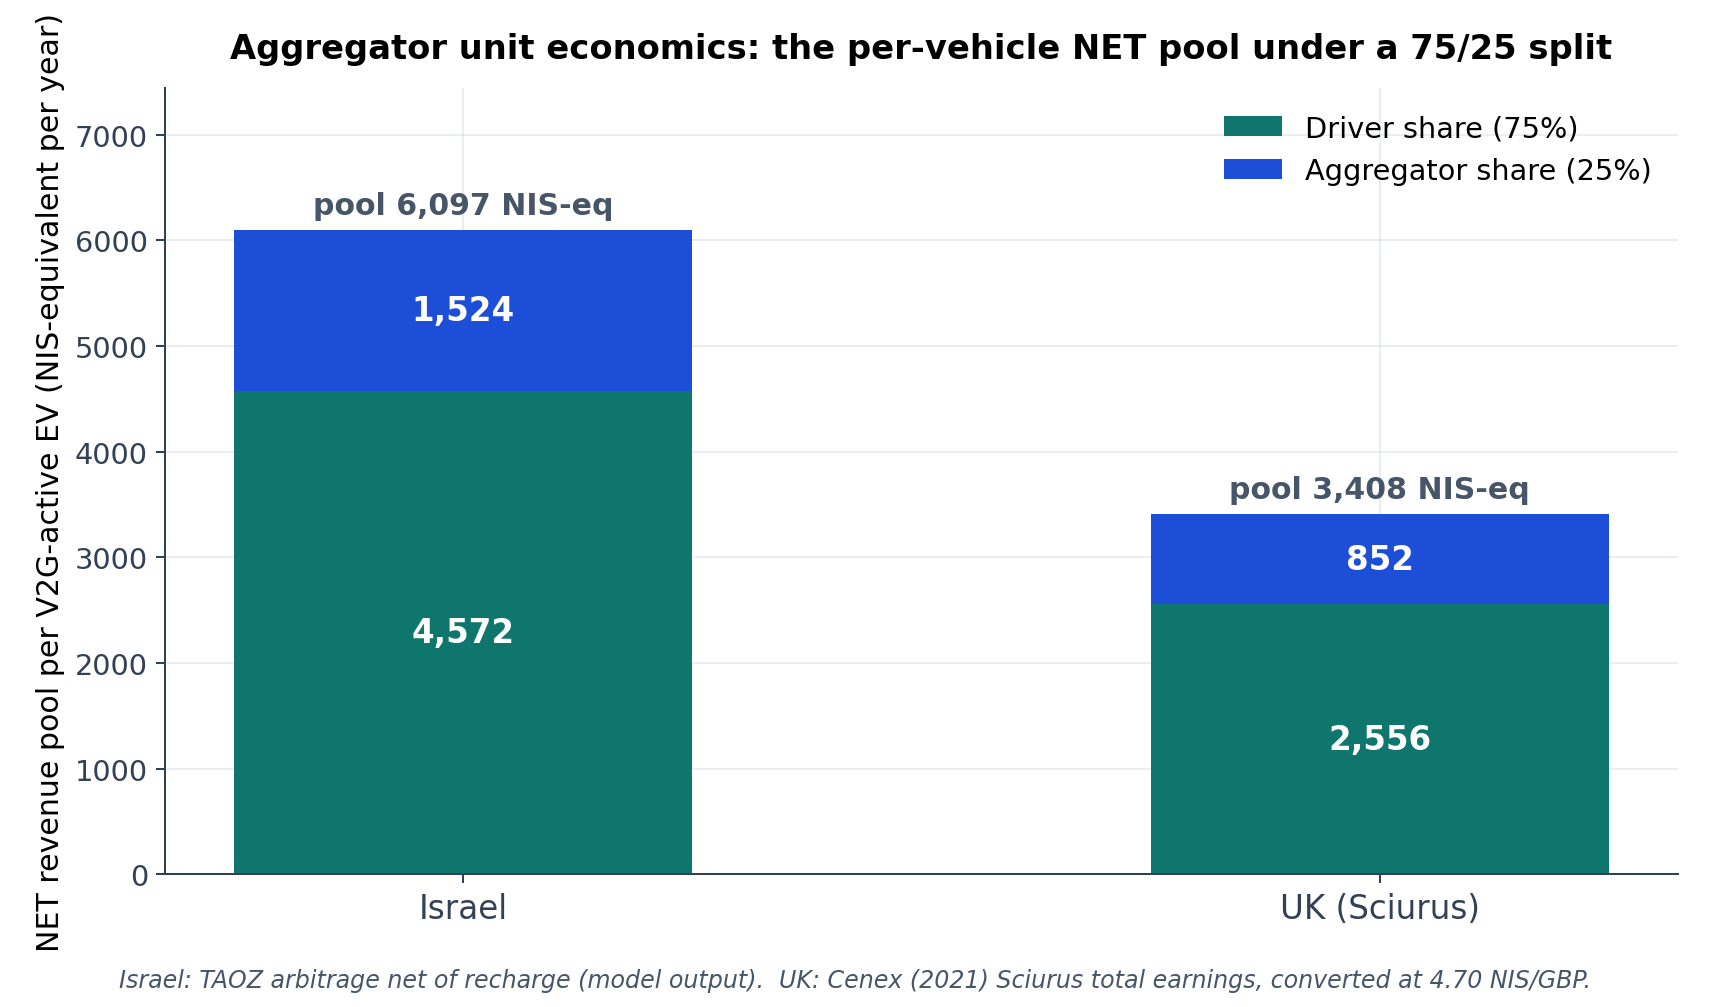
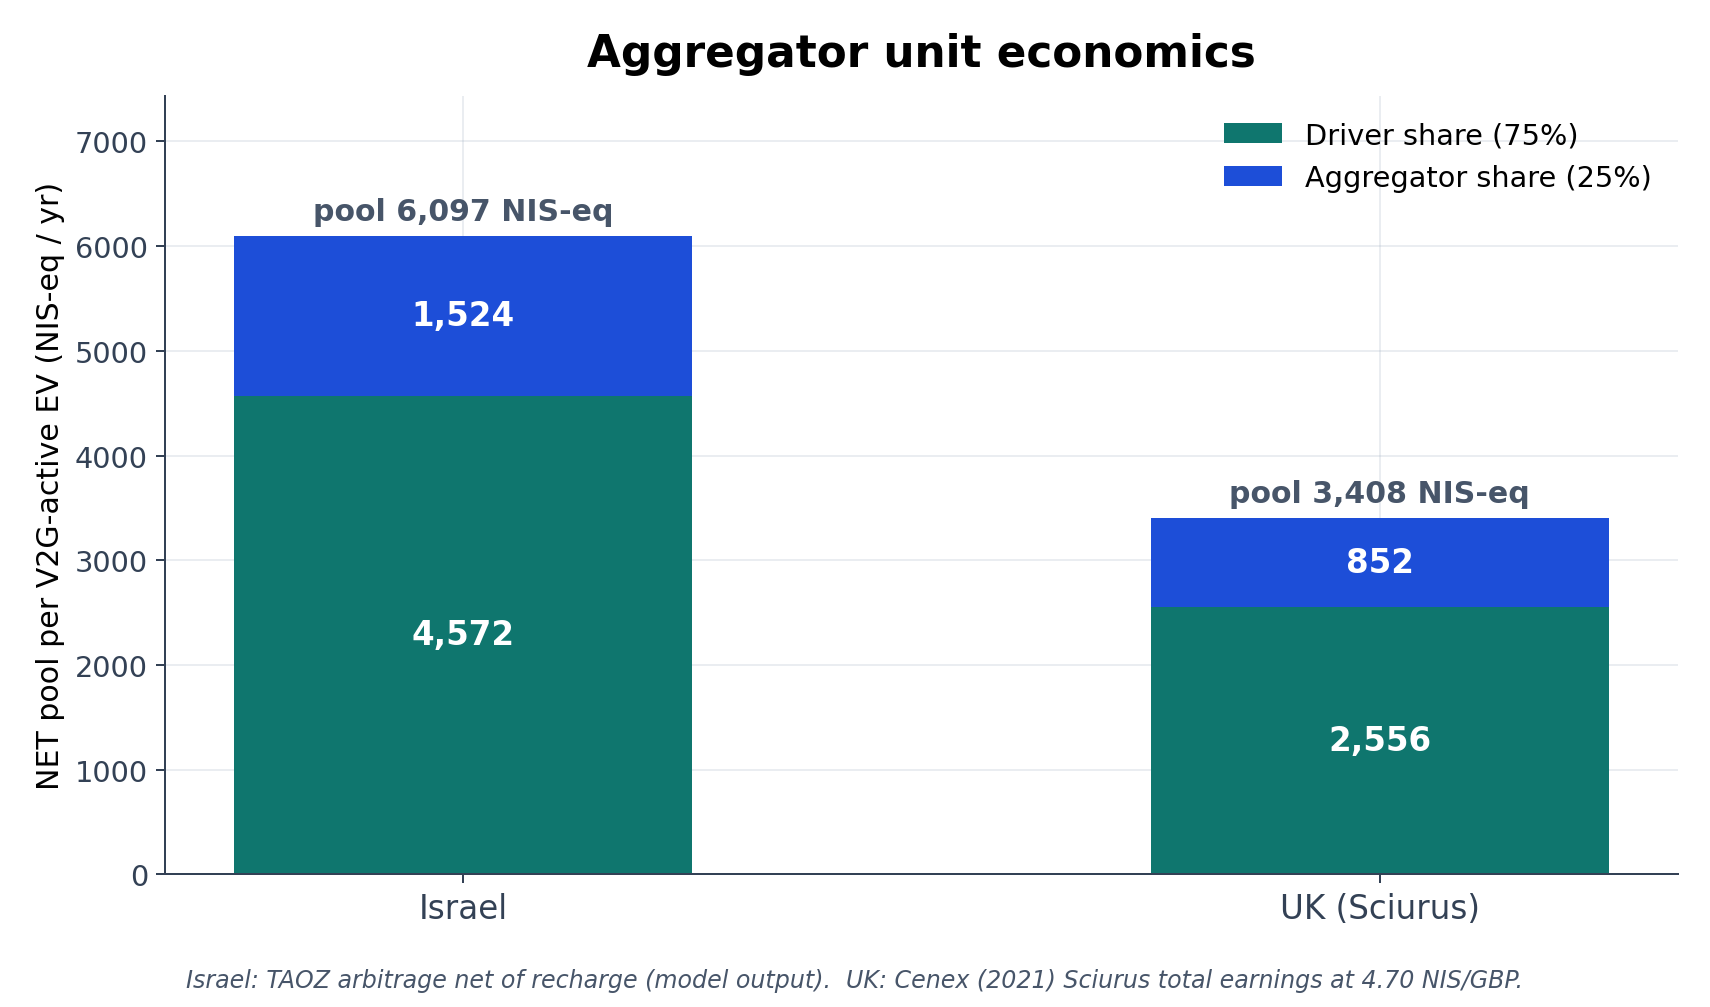
git add -A git commit -m "Title-size formula across all figures (uniform 8pt printed size: 4.2-4.4, 4.6-4.9 panels, 5.1), Fig 4.6 short panel titles after collision, Fig 3.4 centered title with legend below, Fig 4.7 script formalized (plot_w11b_single), representative-vehicle figure retired from man

diff --git a/src/plot_w12t_sensitivity_split.py b/src/plot_w12t_sensitivity_split.py
@@ -33,7 +33,7 @@ def panel_capex(ax):
                label="10-yr battery life")
     ax.set_ylabel("V2G premium payback (years)", fontsize=11.5)
     ax.set_title("(1) Bidirectional charger CAPEX, 2026 vs 2028",
-                 fontsize=14.0, fontweight="bold")
+                 fontsize=18.0, fontweight="bold")
     ax.set_ylim(0, 12)
     ax.legend(fontsize=11.5, loc="upper right")
     ax.grid(True, axis="y", alpha=0.3)
@@ -55,7 +55,7 @@ def panel_uk_rate(ax):
     ax.set_xlabel("Power Pack export rate (p/kWh)", fontsize=11.5)
     ax.set_ylabel("Payback (years)", fontsize=11.5)
     ax.set_title("(2) UK Power Pack rate sweep (net of Go recharge)",
-                 fontsize=14.0, fontweight="bold")
+                 fontsize=18.0, fontweight="bold")
     ax.legend(fontsize=11.5, loc="upper right")
     ax.grid(True, alpha=0.3)
 
@@ -75,7 +75,7 @@ def panel_taoz(ax):
     ax.set_ylabel("Annual GROSS V2G revenue (NIS/EV/yr)", fontsize=11.5)
     ax.set_title("(3) Israel TAOZ peak/off-peak spread\n"
                  "annual gross (subtract ~1,940 NIS/yr CAPEX amortisation for net)",
-                 fontsize=14.0, fontweight="bold")
+                 fontsize=18.0, fontweight="bold")
     ax.legend(fontsize=11.5, loc="upper left")
     ax.grid(True, axis="y", alpha=0.3)
 
@@ -95,7 +95,7 @@ def panel_plugin(ax):
     ax.set_xlabel("Plug-in probability (% of home evenings)", fontsize=11.5)
     ax.set_ylabel("Daily Charger V2G kWh/yr", fontsize=11.5)
     ax.set_title("(4) Plug-in probability robustness (3-seed avg, 90 % cap)",
-                 fontsize=14.0, fontweight="bold")
+                 fontsize=18.0, fontweight="bold")
     ax.legend(fontsize=11.5, loc="lower right")
     ax.grid(True, alpha=0.3)
 
@@ -116,7 +116,7 @@ def panel_return_home(ax):
     ax.set_xlabel("Arrival home hour", fontsize=11.5)
     ax.set_ylabel("Daily Charger V2G kWh/yr", fontsize=11.5)
     ax.set_title("(6) Return-home hour sensitivity (3-seed avg, 90 % cap)",
-                 fontsize=14.0, fontweight="bold")
+                 fontsize=18.0, fontweight="bold")
     ax.legend(fontsize=11.5, loc="lower left")
     ax.grid(True, alpha=0.3)
     ax.set_ylim(3500, 6500)
@@ -147,7 +147,7 @@ def panel_drive_days(ax):
     ax.set_ylabel("Annual V2G kWh / car", fontsize=11.5)
     ax.set_title("(7) Drive-days sensitivity (3-seed avg, 90 % cap)\n"
                  "matched 87 % plug-in; curves converge at 0 d/wk",
-                 fontsize=14.0, fontweight="bold")
+                 fontsize=18.0, fontweight="bold")
     ax.set_xticks(drive_days)
     ax.legend(fontsize=11.5, loc="lower left")
     ax.grid(True, alpha=0.3)
@@ -190,7 +190,7 @@ def panel_grid(ax):
                   fontsize=11.5)
     ax.set_title("(5) Feeder worst-case envelope, all participants discharging\n"
                  "at once (54 HH x 1 EV, 517 kVA; simulated year: zero denials)",
-                 fontsize=14.0, fontweight="bold")
+                 fontsize=18.0, fontweight="bold")
     ax.legend(fontsize=11.0, loc="upper left")
     ax.grid(True, alpha=0.3)
     ax.set_ylim(-260, 620)

diff --git a/src/plot_w11_aggregator_economics.py b/src/plot_w11_aggregator_economics.py
@@ -86,8 +86,8 @@ def fig1_alpha_beta_heatmap() -> Path:
         ax.set_ylabel(r"$\beta \cdot \gamma$  -  capable AND participating share of EVs",
                       fontsize=12.5)
         currency = "NIS" if country == "Israel" else "GBP"
-        ax.set_title(f"{country}  -  aggregator annual revenue (millions of {currency})",
-                     fontsize=13.5, fontweight="bold")
+        ax.set_title(f"{country} (millions of {currency})",
+                     fontsize=17.5, fontweight="bold", loc="center")
 
         vmax = grid.max() if grid.max() > 0 else 1.0
         for i in range(len(BGAMMA_GRID)):
@@ -100,16 +100,12 @@ def fig1_alpha_beta_heatmap() -> Path:
         plt.colorbar(im, ax=ax, fraction=0.045, pad=0.04,
                      label=f"millions of {currency} per year")
 
-    fig.suptitle(
-        "Aggregator annual revenue under alpha x (beta*gamma) sensitivity   "
-        f"-   aggregator share {AGGREGATOR_SHARE_DEFAULT*100:.0f}% of V2G margin",
-        fontsize=13.5, fontweight="bold",
-    )
+    pass
     fig.text(0.5, 0.02,
              "alpha = EV share of total fleet  ·  beta*gamma = share of EVs "
              "BOTH V2G-capable AND participating (Wong-weighted).",
              ha="center", fontsize=10.5, style="italic", color="#555")
-    fig.tight_layout(rect=(0, 0.04, 1, 0.93))
+    fig.tight_layout(rect=(0, 0.04, 1, 1))
     out = OUTDIR / "w11_aggregator_alpha_beta.png"
     fig.savefig(out, dpi=150, facecolor="white")
     plt.close(fig)
@@ -160,7 +156,7 @@ def fig2_share_sensitivity() -> Path:
         ax.set_title(
             f"{country}  -  2030 target fleet "
             f"(alpha={alpha:.2f}, beta={beta:.2f})",
-            fontsize=12, fontweight="bold",
+            fontsize=17.5, fontweight="bold",
         )
         ax.legend(loc="center right", fontsize=10, framealpha=0.95)
         ax.grid(True, alpha=0.3)
@@ -168,7 +164,7 @@ def fig2_share_sensitivity() -> Path:
     fig.suptitle(
         "Driver vs aggregator split  -  fixed 2030 target fleet, "
         "Wong-weighted per-EV V2G revenue",
-        fontsize=12, fontweight="bold",
+        fontsize=17.5, fontweight="bold",
     )
     fig.tight_layout(rect=(0, 0, 1, 0.93))
     out = OUTDIR / "w11_aggregator_share_curve.png"

diff --git a/src/plot_w11b_single.py b/src/plot_w11b_single.py
@@ -1,0 +1,50 @@
+"""Figure 4.7: per-vehicle NET pool under the 75/25 split (single panel).
+
+Run:  python -m src.plot_w11b_single
+"""
+
+import matplotlib.pyplot as plt
+import numpy as np
+
+from src.plot_style import apply_style, PALETTE
+
+apply_style()
+
+KWH = {"Daily Charger": 4820, "BEV 2nd Vehicle": 6220}
+PEAK, OFF, RTE = 1.6895, 0.528, 0.9025
+IL_NET = sum(k * PEAK - k / RTE * OFF for k in KWH.values()) / 2
+UK_NET_GBP = 725
+GBP_TO_NIS = 4.70
+VALS = {"Israel": IL_NET, "UK (Sciurus)": UK_NET_GBP * GBP_TO_NIS}
+DR, AG = 0.75, 0.25
+
+
+def main() -> None:
+    fig, ax = plt.subplots(figsize=(9.5, 5.6))
+    x = np.arange(2); bw = 0.5
+    drv = [VALS[c] * DR for c in VALS]
+    agg = [VALS[c] * AG for c in VALS]
+    ax.bar(x, drv, bw, color=PALETTE["israel"], label="Driver share (75%)")
+    ax.bar(x, agg, bw, bottom=drv, color=PALETTE["uk"], label="Aggregator share (25%)")
+    for i, c in enumerate(VALS):
+        ax.text(x[i], drv[i] / 2, f"{drv[i]:,.0f}", ha="center", va="center",
+                fontsize=13, fontweight="bold", color="white")
+        ax.text(x[i], drv[i] + agg[i] / 2, f"{agg[i]:,.0f}", ha="center", va="center",
+                fontsize=13, fontweight="bold", color="white")
+        ax.text(x[i], drv[i] + agg[i] + 150, f"pool {VALS[c]:,.0f} NIS-eq", ha="center",
+                fontsize=12, fontweight="bold", color=PALETTE["neutral"])
+    ax.set_xticks(x); ax.set_xticklabels(list(VALS), fontsize=13)
+    ax.set_ylabel("NET pool per V2G-active EV (NIS-eq / yr)", fontsize=12)
+    ax.set_title("Aggregator unit economics", fontsize=17.5, fontweight="bold", loc="center")
+    ax.legend(fontsize=11.5, loc="upper right")
+    ax.set_ylim(0, max(VALS.values()) * 1.22)
+    fig.text(0.5, 0.02, "Israel: TAOZ arbitrage net of recharge (model output).  "
+             "UK: Cenex (2021) Sciurus total earnings at 4.70 NIS/GBP.",
+             ha="center", fontsize=9.5, color=PALETTE["neutral"], style="italic")
+    fig.tight_layout(rect=(0, 0.05, 1, 1))
+    fig.savefig("outputs/w11b_aggregator_per_ev_single.png")
+    print("Saved outputs/w11b_aggregator_per_ev_single.png")
+
+
+if __name__ == "__main__":
+    main()

diff --git a/src/plot_w13d_sensitivity_pairs.py b/src/plot_w13d_sensitivity_pairs.py
@@ -57,7 +57,7 @@ def panel_taoz_net(ax):
     ax.set_xlabel("TAOZ peak / off-peak ratio", fontsize=11.5)
     ax.set_ylabel("Annual NET V2G revenue (NIS / opted-in EV)", fontsize=11.5)
     ax.set_title("(3) Israel TAOZ spread (NET basis)",
-                 fontsize=14.0, fontweight="bold")
+                 fontsize=18.0, fontweight="bold")
     ax.legend(fontsize=13.0, loc="upper left")
     ax.grid(True, axis="y", alpha=0.3)
 
@@ -83,7 +83,7 @@ def panel_floor(ax):
     ax.set_xlabel("V2G SoC floor (%)", fontsize=11.5)
     ax.set_ylabel("Annual NET V2G revenue (NIS / opted-in EV)", fontsize=11.5)
     ax.set_title("(4) SoC floor sweep (3-seed avg, 90 % cap)",
-                 fontsize=14.0, fontweight="bold")
+                 fontsize=18.0, fontweight="bold")
     ax.set_xticks(floors)
     ax.set_ylim(2900, 9400)
     ax.legend(fontsize=13.0, loc="upper right")
@@ -122,7 +122,7 @@ def panel_gamma_aggregator(ax):
                   fontsize=11.5)
     ax.set_ylabel("Change in aggregator total revenue (%)", fontsize=11.5)
     ax.set_title("(8) Aggregator revenue vs behavioural inputs and gamma-2",
-                 fontsize=14.0, fontweight="bold")
+                 fontsize=18.0, fontweight="bold")
     ax.legend(fontsize=13.0, loc="upper left")
     ax.grid(True, alpha=0.3)
 

diff --git a/src/plot_w11c_pnl_active.py b/src/plot_w11c_pnl_active.py
@@ -169,7 +169,7 @@ def draw(country: str, currency: str, premium: float,
     max_rev = max(rev_nmc + rev_lfp)
     ax.set_ylim(-max_bat * 1.15, max_rev * 1.38)
     ax.set_title("Annual operating P&L",
-                 fontsize=14.0, fontweight="bold", loc="center")
+                 fontsize=20, fontweight="bold", loc="center")
     # Legend BELOW the plot so it does not overlap the bars
     ax.legend(loc="upper center", bbox_to_anchor=(0.5, -0.10),
               ncol=2, fontsize=12.0, framealpha=0.95)
@@ -207,7 +207,7 @@ def draw(country: str, currency: str, premium: float,
         sub = (f"Premium {premium:,.0f} GBP.  Power Pack net of 7 p Go recharge;\n"
                f"Sciurus alternative: {UK_SCIURUS_TOTAL_GBP:.0f} GBP/yr total (payback ~5.5 y).")
     ax.set_title("V2G premium payback (years)",
-                 fontsize=14.0, fontweight="bold", loc="center")
+                 fontsize=20, fontweight="bold", loc="center")
     ax.legend(loc="upper left", fontsize=13.0, framealpha=0.95)
     ax.grid(True, axis="y", alpha=0.3)
     ax.set_ylim(0, max(20, max(pb_nmc_d + pb_lfp_d) * 1.20))

diff --git a/src/plot_w12m_retail_vs_retail.py b/src/plot_w12m_retail_vs_retail.py
@@ -63,7 +63,7 @@ def main() -> None:
     ax.set_ylabel("Annual NET V2G revenue per opted-in EV (NIS-equivalent)",
                   fontsize=11)
     ax.set_title("Retail vs retail, NET basis",
-                 fontsize=14.0, fontweight="bold")
+                 fontsize=18.5, fontweight="bold")
     ax.legend(loc="upper left", fontsize=13.0, framealpha=0.95)
     ax.grid(True, axis="y", alpha=0.3)
     ax.set_ylim(0, max(il_rev) * 1.30)
@@ -97,7 +97,7 @@ def main() -> None:
 
     ax.set_ylabel("Annual V2G revenue per active EV (GBP)", fontsize=11)
     ax.set_title("Full market picture (Daily Charger)",
-                 fontsize=14.0, fontweight="bold")
+                 fontsize=18.5, fontweight="bold")
     ax.set_ylim(0, max(vals_gbp) * 1.30)
     ax.grid(True, axis="y", alpha=0.3)
     ax.tick_params(axis="x", labelsize=9)

diff --git a/src/plot_uk_pricing.py b/src/plot_uk_pricing.py
@@ -60,11 +60,11 @@ def main() -> None:
     ax.set_ylim(0, 35)
     ax.set_xticks(range(0, 24, 2))
     ax.set_xticklabels([f"{h:02d}:00" for h in range(0, 24, 2)])
-    ax.set_title("UK tariffs over 24 hours", fontsize=16, fontweight="bold")
-    ax.legend(loc="center", bbox_to_anchor=(0.45, 0.42), fontsize=12.5, framealpha=0.95)
+    ax.set_title("UK tariffs over 24 hours", fontsize=16, fontweight="bold", loc="center")
+    ax.legend(loc="upper center", bbox_to_anchor=(0.5, -0.10), ncol=2, fontsize=12, framealpha=0.95)
     ax.grid(True, alpha=0.3)
 
-    fig.tight_layout()
+    fig.tight_layout(rect=(0, 0.12, 1, 1))
     fig.savefig(OUT, dpi=200, facecolor="white", bbox_inches="tight")
     plt.close(fig)
     print(f"Saved {OUT}")

diff --git a/src/plot_w14a_v2g_funnel.py b/src/plot_w14a_v2g_funnel.py
@@ -60,7 +60,7 @@ def main() -> None:
         y -= (H + GAP)
 
     ax.set_title("The V2G Funnel: what stands between a vehicle fleet "
-                 "and V2G participation", fontsize=13, fontweight="bold",
+                 "and V2G participation", fontsize=15.0, fontweight="bold",
                  pad=12)
 
     fig.text(0.5, 0.015,
